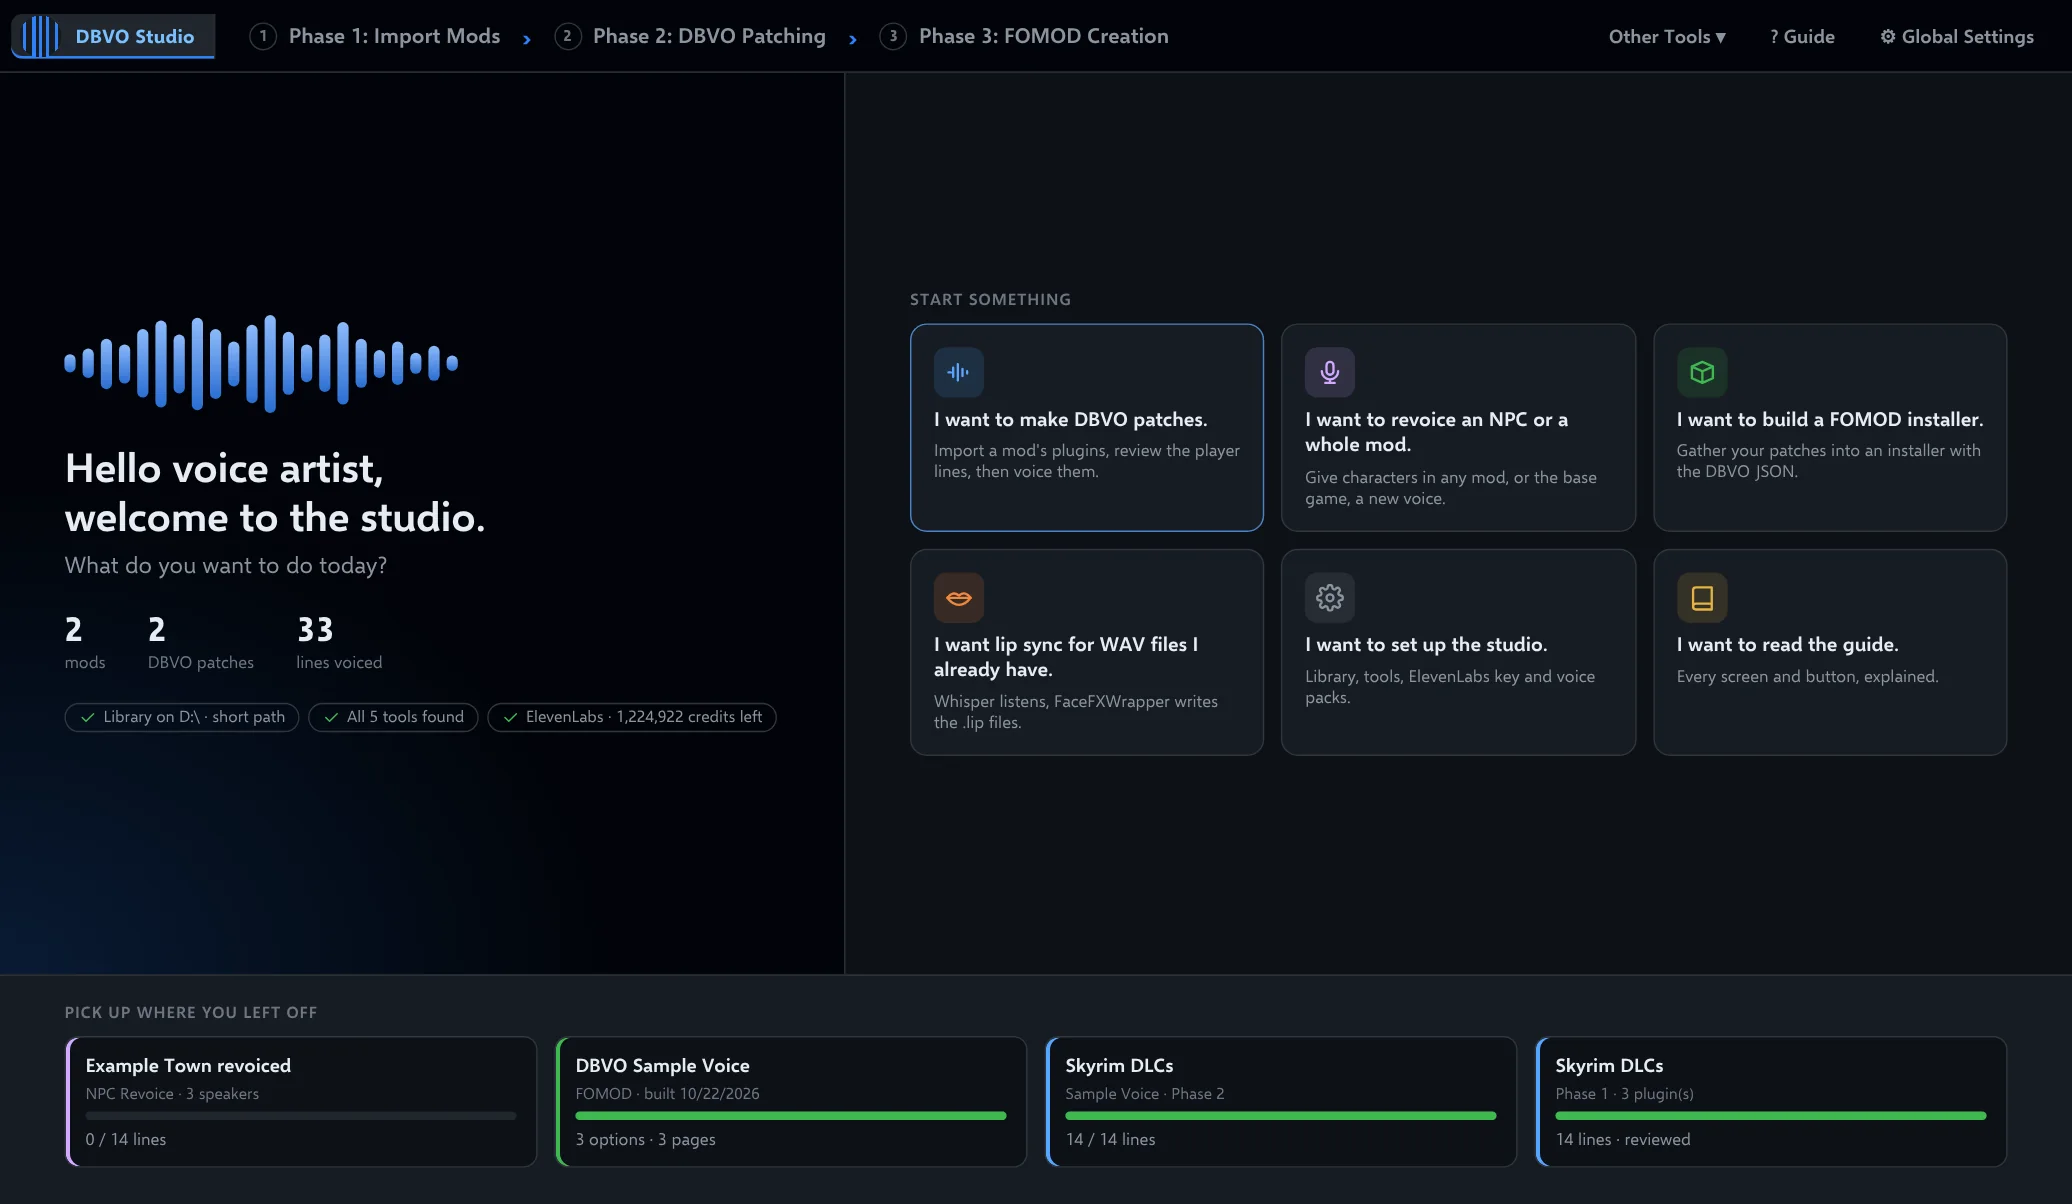
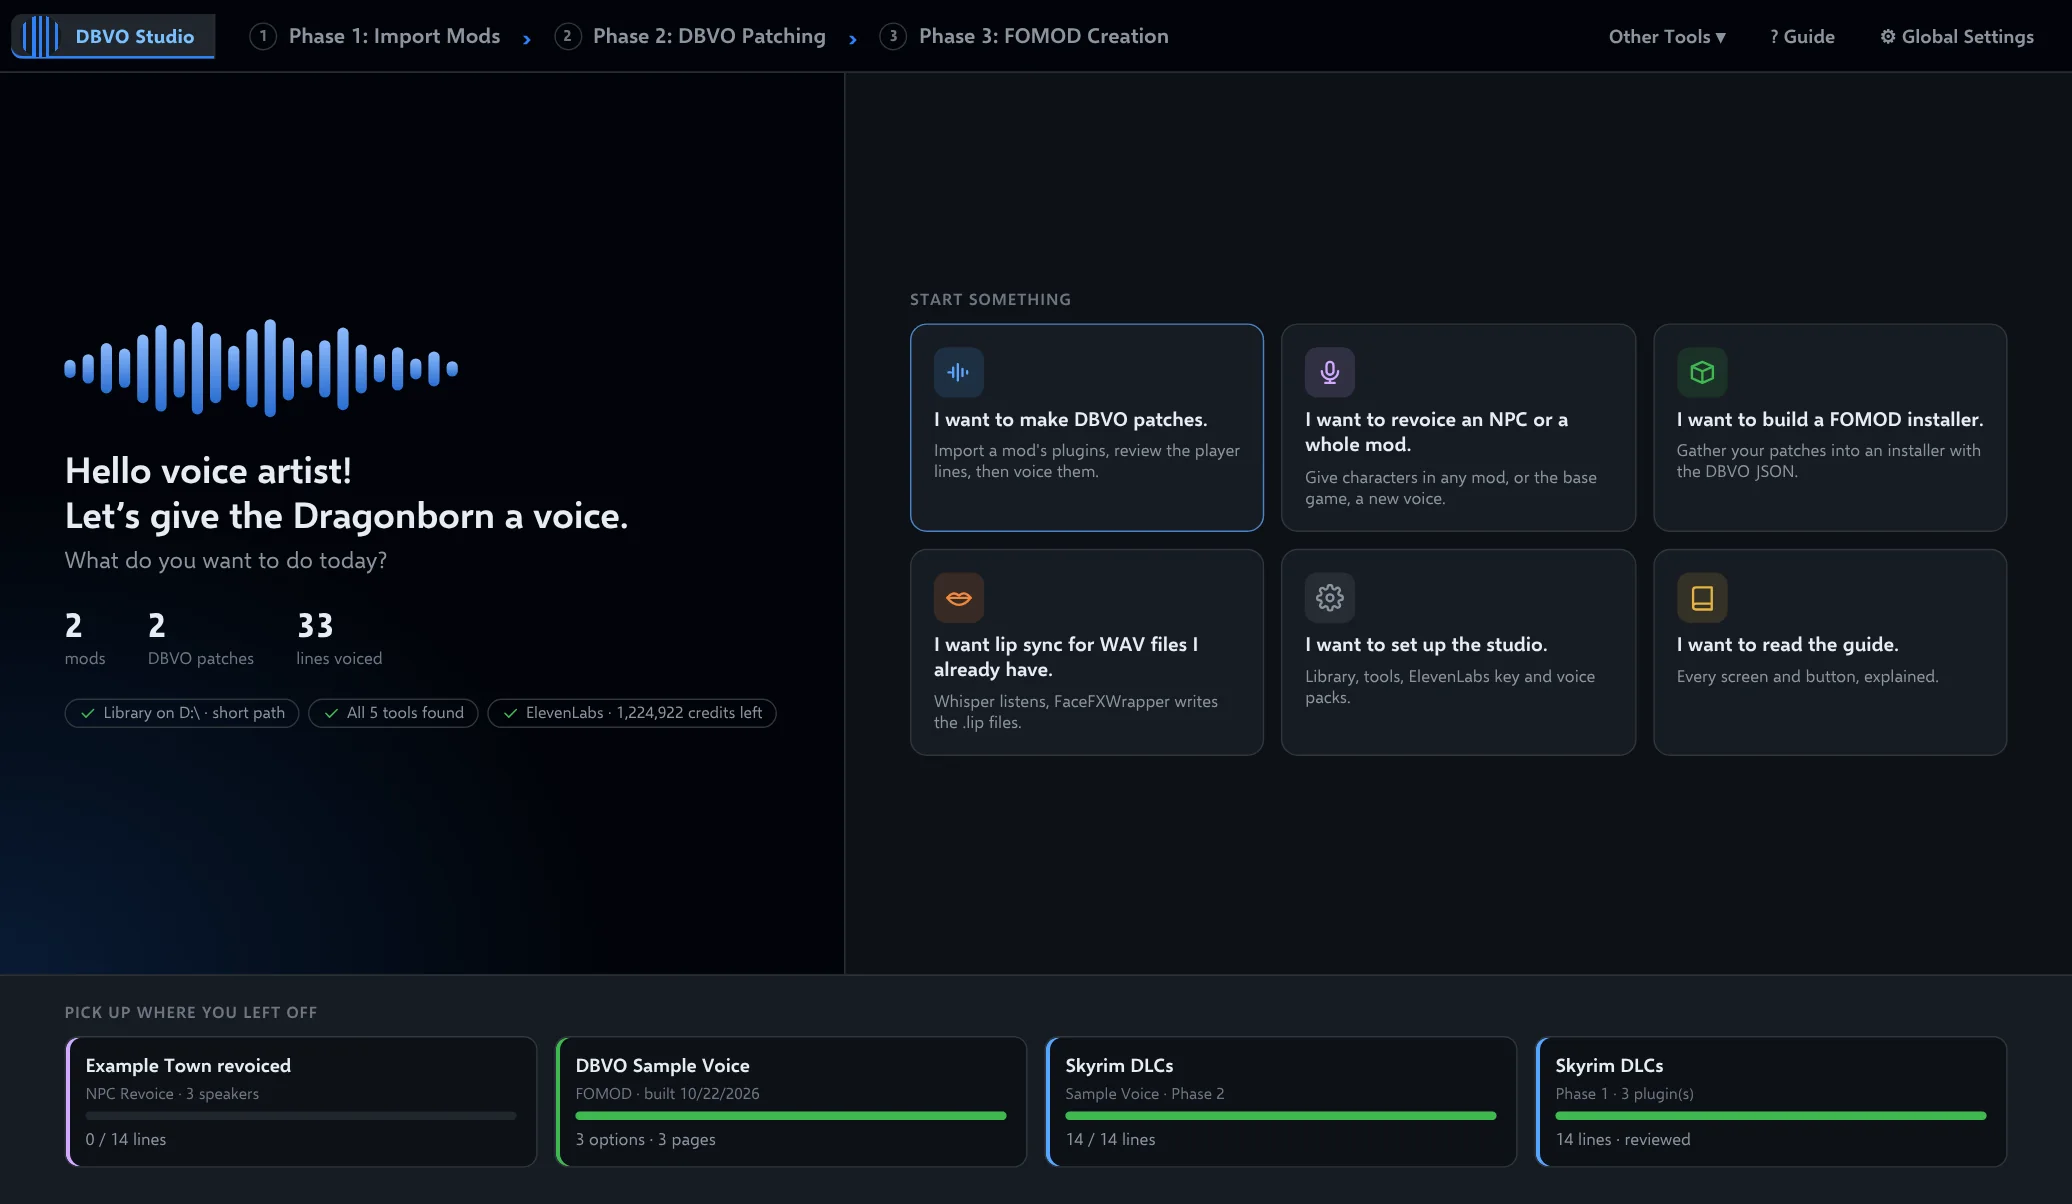
Landing page: six rotating welcome messages
The first on the very first launch, then the next one each time DBVO Studio opens, looping.
The headline scales with the panel width so the longest one stays on two lines.

Claude-Session: https://claude.ai/code/session_01U6TEYM8mjbw7eJaLX2KYzY

diff --git a/src/DbvoStudio.App/wwwroot/help/guide.html b/src/DbvoStudio.App/wwwroot/help/guide.html
@@ -5,7 +5,7 @@
 <p>Phase 1 decides <em>what</em> is said, Phase 2 decides <em>how it sounds</em>, and Phase 3 decides <em>how it is installed</em>. You can export at any stage and skip the FOMOD altogether.</p>
 <p>The guide follows the same order: setup, the three phases, the two tools, a reference of greyed-out buttons, then files and troubleshooting. Every button in the app also has a tooltip. The screenshots use sample data: the base game plugins as the mod, and a voice pack called <em>Sample Voice</em>.</p>
 <h3 id="the-landing-page-and-help">The landing page and help</h3>
-<p>Clicking <strong>DBVO Studio</strong> at the top left opens the landing page. It greets you and offers what to do next: make DBVO patches, revoice NPCs, build a FOMOD, make lip sync, set up the studio or read this guide.</p>
+<p>Clicking <strong>DBVO Studio</strong> at the top left opens the landing page. It greets you (with a different welcome each time DBVO Studio opens) and offers what to do next: make DBVO patches, revoice NPCs, build a FOMOD, make lip sync, set up the studio or read this guide.</p>
 <ul><li><p><strong>The left side</strong> counts your mods, patches and voiced lines, and checks the studio: the Library path, the five tools, your ElevenLabs credits and AI auto-tagging. An amber chip needs attention; click it to go to the setting.</p></li><li><p><strong>Pick up where you left off</strong> shows the four projects you opened most recently (patches, mods, FOMODs and revoice projects) with their progress. Click one to open it.</p></li></ul>
 <figure><img src="help/img/landing.webp" alt="The landing page: what to do, the studio check and the work to pick up again" loading="lazy"><figcaption>The landing page: what to do, the studio check and the work to pick up again</figcaption></figure>
 <p>Help is built in. The small <strong>?</strong> buttons next to page titles, toolbars, settings and dialogs open this guide at the matching section in a side panel; <strong>Esc</strong> closes it. <strong>? Guide</strong> in the top bar, or <strong>F1</strong>, opens the whole guide with a contents list and search.</p>

diff --git a/src/DbvoStudio.App/wwwroot/home.js b/src/DbvoStudio.App/wwwroot/home.js
@@ -11,6 +11,24 @@ const CHOICES = [
   { icon: 'book', color: '#e3b341', title: 'I want to read the guide.', sub: 'Every screen and button, explained.', go: () => go('help') },
 ];
 
+// The welcome: the first one on the very first launch, then the next one each time DBVO Studio opens, looping.
+const GREETINGS = [
+  ['Hello voice artist!', 'Let’s give the Dragonborn a voice.'],
+  ['Hello voice artist!', 'Welcome back to the studio.'],
+  ['Welcome, voice artist!', 'Let’s give Skyrim something new to say.'],
+  ['Good to see you, voice artist!', 'The studio is all yours.'],
+  ['Welcome back to the studio!', 'Your audience in Skyrim is waiting.'],
+  ['Hello voice artist!', 'Let’s make some noise in Nirn.'],
+];
+let greeting = null; // picked once per launch
+function pickGreeting() {
+  if (greeting) return greeting;
+  const last = Number(store.get('greeting', -1));
+  const i = Number.isInteger(last) && last >= 0 ? (last + 1) % GREETINGS.length : 0;
+  store.set('greeting', i);
+  return (greeting = GREETINGS[i]);
+}
+
 const WAVE = [18, 30, 52, 40, 70, 88, 60, 94, 72, 46, 80, 100, 64, 38, 58, 84, 50, 28, 44, 22, 36, 16];
 const RECENT_KEY = 'recent';
 const RECENT_VIEWS = ['mod', 'patch', 'fomod', 'revoice'];
@@ -62,7 +80,7 @@ export async function homeView() {
 
   const left = h('section.home-hero',
     h('div.home-wave', WAVE.map((x) => h('i', { style: { height: x + '%' } }))),
-    h('h1', 'Hello voice artist,', h('br'), 'welcome to the studio.'),
+    h('h1', pickGreeting()[0], h('br'), pickGreeting()[1]),
     h('p.home-ask', 'What do you want to do today?'),
     stats, checks);
 

diff --git a/src/DbvoStudio.App/wwwroot/styles.css b/src/DbvoStudio.App/wwwroot/styles.css
@@ -456,7 +456,8 @@ input[type=checkbox] { accent-color: var(--accent); width: 15px; height: 15px; }
   background: radial-gradient(120% 90% at 0% 100%, color-mix(in srgb, var(--accent) 18%, transparent), transparent 60%), var(--deep); }
 .home-wave { display: flex; gap: 5px; align-items: center; height: 70px; margin-bottom: 22px; }
 .home-wave i { flex: 0 0 8px; border-radius: 5px; background: linear-gradient(color-mix(in srgb, var(--accent) 55%, #fff), var(--accent-strong)); }
-.home-hero h1 { font-size: 29px; line-height: 1.2; margin: 0 0 8px; font-weight: 600; letter-spacing: -.2px; }
+.home-hero { container-type: inline-size; }
+.home-hero h1 { font-size: clamp(20px, 5.1cqi, 29px); line-height: 1.2; margin: 0 0 8px; font-weight: 600; letter-spacing: -.2px; text-wrap: balance; }
 .home-ask { color: var(--dim); font-size: 16.5px; margin: 0 0 22px; }
 .home-stats { display: flex; gap: 30px; }
 .home-stats b { display: block; font-size: 24px; font-weight: 650; }
